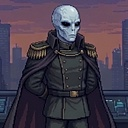
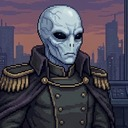
v101: nouveau portrait Lord Vane

diff --git a/game.js b/game.js
@@ -4,7 +4,7 @@
    ========================================================= */
 'use strict';
 (() => {
-const VERSION = 'v100';
+const VERSION = 'v101';
 
 let W = 384; const H = 216, GROUND = 190, GRAV = 0.34;
 let CX = 192; // centre horizontal
@@ -3554,8 +3554,8 @@ function drawSpark(s) {
 }
 
 // ---------- Portraits et grille de sélection (8 cases) ----------
-const PORTRAITS = ['p_kaito.jpg', 'p_john.jpg', 'p_vesper.jpg', 'p_grog.jpg', 'p_zephyr.jpg', 'p_nyx.jpg', 'p_kael.jpg', 'p_vane.jpg'].map(src => { const im = new Image(); im.src = src + '?v=95'; return im; });
-const PORTRAITS_HURT = ['p_kaito_hurt.jpg', 'p_john_hurt.jpg', 'p_vesper_hurt.jpg', 'p_grog_hurt.jpg', 'p_zephyr_hurt.jpg', 'p_nyx_hurt.jpg', 'p_kael_hurt.jpg', 'p_vane_hurt.jpg'].map(src => { const im = new Image(); im.src = src + '?v=95'; return im; });
+const PORTRAITS = ['p_kaito.jpg', 'p_john.jpg', 'p_vesper.jpg', 'p_grog.jpg', 'p_zephyr.jpg', 'p_nyx.jpg', 'p_kael.jpg', 'p_vane.jpg'].map(src => { const im = new Image(); im.src = src + '?v=101'; return im; });
+const PORTRAITS_HURT = ['p_kaito_hurt.jpg', 'p_john_hurt.jpg', 'p_vesper_hurt.jpg', 'p_grog_hurt.jpg', 'p_zephyr_hurt.jpg', 'p_nyx_hurt.jpg', 'p_kael_hurt.jpg', 'p_vane_hurt.jpg'].map(src => { const im = new Image(); im.src = src + '?v=101'; return im; });
 const PORTRAIT_FACE = [1, -1, 1, 1, 1, 1, 1, 1];   // sens du regard de chaque image : Kaito regarde à droite, John à gauche
 // Portraits provisoires dessinés à partir du sprite (en attendant de vraies illustrations)
 function makePortrait(i, hurt) {

diff --git a/index.html b/index.html
@@ -29,7 +29,7 @@
 <link rel="preconnect" href="https://fonts.googleapis.com">
 <link rel="preconnect" href="https://fonts.gstatic.com" crossorigin>
 <link href="https://fonts.googleapis.com/css2?family=Press+Start+2P&display=swap" rel="stylesheet">
-<link rel="stylesheet" href="style.css?v=100">
+<link rel="stylesheet" href="style.css?v=101">
 </head>
 <body>
 <div id="app">
@@ -64,6 +64,6 @@
 
 <script src="https://cdnjs.cloudflare.com/ajax/libs/peerjs/1.5.4/peerjs.min.js"></script>
 <script src="https://cdnjs.cloudflare.com/ajax/libs/qrcode-generator/1.4.4/qrcode.min.js"></script>
-<script src="game.js?v=100"></script>
+<script src="game.js?v=101"></script>
 </body>
 </html>
